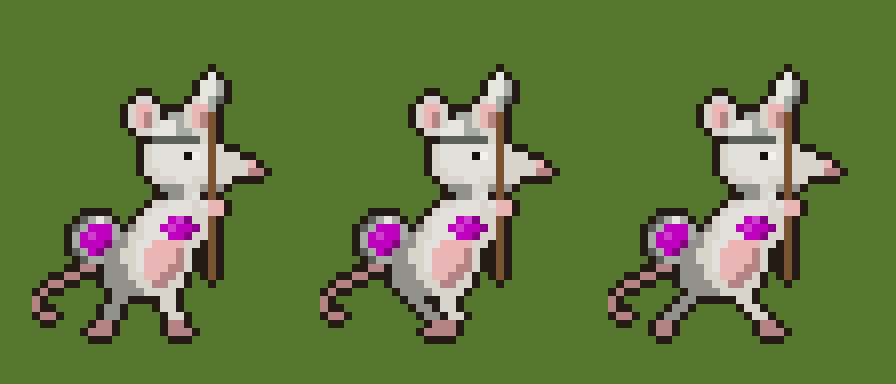
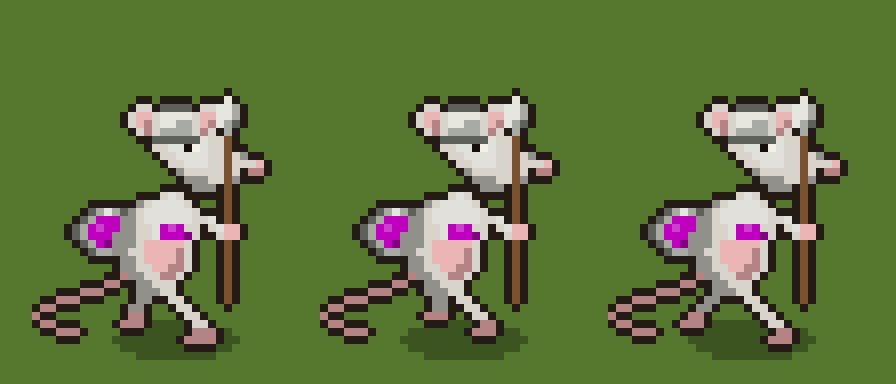
2D slice: the rat redrawn for the isometric camera (seen from above, ground shadow)

Changed region(s): [[0.6562, 0.1562, 0.9688, 0.9375], [0.0312, 0.1562, 0.3125, 0.9375], [0.3438, 0.1562, 0.625, 0.9375]]

diff --git a/tests/pixel_rat.py b/tests/pixel_rat.py
@@ -12,83 +12,86 @@ from pixel_kit import *
 
 OUT = os.path.join(os.path.dirname(__file__), "..", "docs", "concepts", "2d")
 
-# ---------------------------------------------------------------- se: three-quarter, facing right
-TORSO_SE = [   # neck point at (12, 0)
-    "...........fff..",
-    ".........ffFFFf.",
-    "........fFFFFFff",
-    ".......fFFFtUTff",
-    "......gfFFtUttTf",
-    ".....gffFFFttTff",
-    "....ggfFFPPPPff.",
-    "...ggffFPPPPpf..",
-    "...ggffFPPPPpf..",
-    "...gggfFPPPppf..",
-    "...gggffPPppf...",
-    "...ggggffppff...",
-    "....ggggffff....",
+# ---------------------------------------------------------------- se: facing down-right on the map
+# Drawn from the game's raised camera (about 30 degrees down): the top of the head, pot and
+# shoulders show, the far foot sits higher than the near one, the tail lies on the ground.
+TORSO_SE = [   # hunched, seen from above: the curved back's top shows, narrow waist; neck at (10, 0)
+    ".........fFf....",
+    "......gfFFFFf...",
+    ".....gfFFFFFFf..",
+    "....ggfFFFFFFf..",
+    "....ggffFtUtff..",
+    "...gggffFtttTf..",
+    "...gggfPPPPPf...",
+    "...ggffPPPPpf...",
+    "....ggfPPPPpf...",
+    "....ggffPPppf...",
+    ".....ggffppf....",
+    "......ggfff.....",
+    "......gggg......",
 ]
-LEGS_SE = [    # three walk frames: standing, far leg forward, near leg forward; hips at row 0
+LEGS_SE = [    # hips at row 0; the far (left) foot higher on the ground than the near (right) one
     [
-        "....gggg.fff....",
-        "....gg....ff....",
-        "...gg.....ff....",
-        "...gg......ff...",
-        "..pp.......pp...",
-        ".ppp.......ppp..",
+        "......gg.ff.....",
+        "......gg..ff....",
+        ".....gg....ff...",
+        ".....pp.....ff..",
+        "....ppp......ff.",
+        ".............ppp",
+        "............pppp",
     ],
     [
-        "....gggg.fff....",
-        ".....gg..ff.....",
         "......gg.ff.....",
         ".......gg.ff....",
-        "........ppp.....",
-        ".......pppp.....",
+        ".......gg..ff...",
+        "......ppp...ff..",
+        ".............pp.",
+        "............ppp.",
+        "................",
     ],
     [
-        "....gggg.fff....",
-        "...gg.....ff....",
-        "..gg.......ff...",
-        ".gg.........ff..",
-        "pp...........pp.",
-        "pp...........ppp",
+        "......gg.ff.....",
+        ".....gg...ff....",
+        "....gg.....ff...",
+        "...pp.......ff..",
+        "..ppp........ff.",
+        "..............pp",
+        ".............ppp",
     ],
 ]
-HEAD_SE = [    # neck point at (5, 10); a long tapered snout with the nose at its tip
-    "................",
-    "................",
-    "................",
-    "..ffFFFFf.......",
-    ".fFFFFFFFff.....",
-    ".fFFFFeWFFfff...",
-    ".fFFFFFFFFffffP.",
-    ".ffFFFFFFfffffpp",
-    "..fffFFfffffoo..",
-    "...gggffggg.....",
-    "....gggg........",
+HEAD_SE = [    # seen from above: the crown shows, a long snout down-right
+    "....fFFFf........",
+    "...fFFFFFff......",
+    "...fFFFFFFff.....",
+    "...ffFFeWFfff....",
+    "....ffFFFFffffg..",
+    ".....ffFFFffffffP",
+    "......gfffffffopp",
+    ".......gggffgg...",
+    "........ggg......",
 ]
 EARS_SE = [    # drawn last, over any head gear: big round rat ears, always showing
-    ".ff.....ff.",
-    "fPPf...fPPf",
-    "fPpf...fPpf",
-    "fPpf...fPpf",
-    ".ff.....ff.",
+    ".ff......ff.",
+    "fPPf....fPPf",
+    "fPpf....fPpf",
+    ".fpf....fpf.",
 ]
-TAIL_SE = [    # from the rump (top right) curling out behind and along the ground
-    "........pp",
-    "......pp..",
-    "....pp....",
-    "..pp......",
-    ".p........",
-    "p.........",
-    "p.........",
-    ".pp.......",
+TAIL_SE = [    # lying on the ground behind, a flat curve seen from above
+    "...........pp",
+    ".........pp..",
+    "......ppp....",
+    "...ppp.......",
+    ".pp..........",
+    "p............",
+    ".pp..........",
+    "...ppp.......",
 ]
-POT_SE = [     # a small cooking pot on the crown, between the ears
-    "..mm..",
-    ".MMmm.",
-    "MMMmmn",
-    "nnnnnn",
+POT_SE = [     # a small cooking pot on the crown, seen from above: its rim's top shows
+    "..nnnn..",
+    ".nMMMMn.",
+    "nMMMmmmn",
+    "nmmmmmmn",
+    ".nnnnnn.",
 ]
 SPEAR_ARM_SE = [   # the near arm forward holding a spear upright; grip at (4, 17)
     "...M.",
@@ -118,32 +121,47 @@ SPEAR_ARM_SE = [   # the near arm forward holding a spear upright; grip at (4, 1
     "...h.",
     "...h.",
 ]
-SHIELD_SE = [  # a bottle-cap shield on the far arm: crimped metal rim, painted in the team colour
-    ".nmMm.",
-    "nmtttm",
-    "mtUttm",
-    "mtttTm",
-    "nmtTTn",
-    ".nmmn.",
+SHIELD_SE = [  # a bottle-cap shield on the far arm, seen a little from above: an ellipse
+    "..nmMmn.",
+    ".nmtttmn",
+    "nmtUtttm",
+    "nmttttTm",
+    ".nmtTTmn",
+    "..nmmn..",
+]
+SHADOW = [     # the ground shadow (drawn first, in ink, under everything)
+    "....oooooooooo....",
+    "..oooooooooooooo..",
+    ".oooooooooooooooo.",
+    "..oooooooooooooo..",
+    "....oooooooooo....",
 ]
 
 
 def spearman_se(frame):
-    cv = canvas(32, 40)
-    stamp(cv, TAIL_SE, 0, 28)
-    stamp(cv, SHIELD_SE, 5, 23)
-    stamp(cv, TORSO_SE, 6, 20)
-    stamp(cv, LEGS_SE[frame], 6, 32)
-    stamp(cv, HEAD_SE, 13, 10)
-    stamp(cv, POT_SE, 15, 10)
-    stamp(cv, EARS_SE, 12, 8)
-    stamp(cv, SPEAR_ARM_SE, 19, 5)
-    return outline(cv)
+    cv = canvas(34, 42)
+    stamp(cv, TAIL_SE, 0, 30)
+    stamp(cv, SHIELD_SE, 5, 22)
+    stamp(cv, TORSO_SE, 7, 20)
+    stamp(cv, LEGS_SE[frame], 7, 32)
+    stamp(cv, HEAD_SE, 12, 11)
+    stamp(cv, POT_SE, 14, 9)
+    stamp(cv, EARS_SE, 12, 9)
+    stamp(cv, SPEAR_ARM_SE, 21, 8)
+    cv = outline(cv)
+    shadow = canvas(34, 42)
+    stamp(shadow, SHADOW, 9, 36)
+    for y in range(42):   # the shadow goes under, as a darker ground (marked 'z')
+        for x in range(34):
+            if shadow[y][x] == "o" and cv[y][x] == ".":
+                cv[y][x] = "z"
+    return cv
 
 
 if __name__ == "__main__":
     os.makedirs(OUT, exist_ok=True)
     pal = palette("#d8d4cc", "#e8a8a8", "#b03a2a")   # a white rat, pink skin, red cloth
+    pal["z"] = hexc("#3c5420")   # the shadow on the grass
     frames = [spearman_se(f) for f in range(3)]
     grass = hexc("#56782e")
     png(os.path.join(OUT, "rat_spear_se_x8.png"), sheet(frames, 32, 40, 3), pal, 8, grass)
